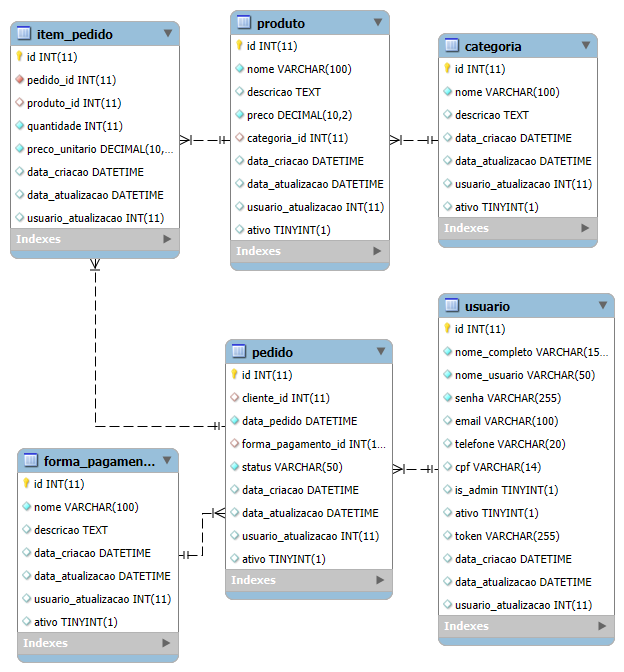
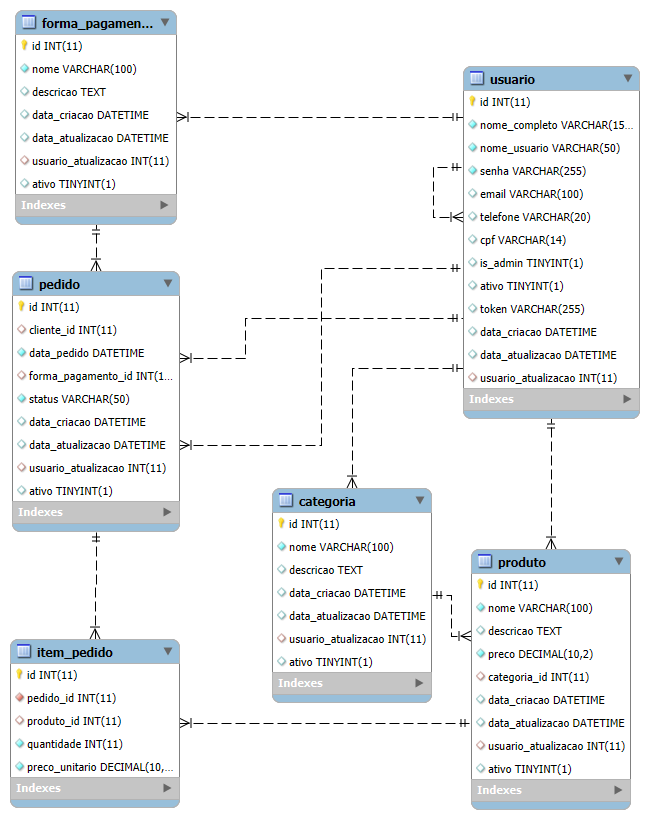
Adicao de calsse Database e atualizacao de diagrama

diff --git a/model/modelteste.php b/model/modelteste.php
@@ -37,6 +37,7 @@ $formaPagamentoCartao = new FormaPagamento(
 );
 
 print_r($categoriaEletronicos);
+echo "\n";
 print_r($formaPagamentoCartao);
 echo "\n";
 
@@ -63,5 +64,74 @@ $produtoMouse = new Produto(
 );
 
 print_r($produtoNotebook);
+echo "\n";
 print_r($produtoMouse);
 echo "\n";
+
+// 4. Criando Itens do Pedido
+echo "4. Criando Itens do Pedido...\n";
+$item1 = new ItemPedido(201, 5001, $produtoNotebook, 1, $produtoNotebook->getPreco());
+$item2 = new ItemPedido(201, 5001, $produtoMouse, 2, $produtoMouse->getPreco());
+
+print_r($item1);
+echo "\n";
+print_r($item2);
+echo "\n";
+
+// 5. Criando o pedido
+echo "5. Criando o Pedido completo...\n";
+$itensDoPedido = [$item1, $item2];
+
+$pedido = new Pedido(
+    5001,
+    $cliente,
+    date('Y-m-d H:i:s'),
+    $formaPagamentoCartao,
+    'Pendente',
+    true,
+    $itensDoPedido,
+    $dataAtual,
+    $dataAtual,
+    $cliente
+);
+
+echo "\n";
+print_r($pedido);
+echo "\n";
+
+
+echo "\n===============================================\n";
+echo "RESULTADO FINAL - OBJETO PEDIDO COMPLETO\n";
+echo "===============================================\n\n";
+
+// Exibindo o objeto Pedido completo com print_r para ver a estrutura aninhada
+print_r($pedido);
+
+echo "\n===============================================\n";
+echo "EXIBINDO DADOS COM GETTERS\n";
+echo "===============================================\n\n";
+
+echo "ID do Pedido: " . $pedido->getId() . "\n";
+echo "Cliente: " . $pedido->getCliente()->getNomeCompleto() . " (Email: " . $pedido->getCliente()->getEmail() . ")\n";
+echo "Data do Pedido: " . $pedido->getDataPedido() . "\n";
+echo "Status: " . $pedido->getStatus() . "\n";
+echo "Forma de Pagamento: " . $pedido->getFormaPagamento()->getNome() . "\n";
+echo "Auditoria: Criado em " . $pedido->getDataCriacao() . " por " . $pedido->getUsuarioAtualizacao()->getNomeCompleto() . "\n";
+echo "-----------------------------------------------\n";
+echo "Itens do Pedido:\n\n";
+
+foreach ($pedido->getItens() as $item) {
+    echo "  - Produto: " . $item->getProduto()->getNome() . "\n";
+    echo "    Categoria: " . $item->getProduto()->getCategoria()->getNome() . "\n";
+    echo "    Quantidade: " . $item->getQuantidade() . "\n";
+    echo "    Preço Unitário: R$ " . number_format($item->getPrecoUnitario(), 2, ',', '.') . "\n";
+    echo "    Subtotal: R$ " . number_format($item->getSubtotal(), 2, ',', '.') . "\n\n";
+}
+
+echo "-----------------------------------------------\n";
+echo "TOTAL DO PEDIDO: R$ " . number_format($pedido->getTotal(), 2, ',', '.') . "\n";
+echo "===============================================\n";
+echo "TESTE CONCLUÍDO\n";
+echo "===============================================\n";
+
+?>

diff --git a/database/Database.php b/database/Database.php
@@ -1,0 +1,25 @@
+<?php
+
+class Database
+{
+    private static ?PDO $instance = null;
+
+    public static function getInstance(): PDO
+    {
+        if (self::$instance === null) {
+            $db_host = "localhost";
+            $db_name = "sistema_vendas";
+            $db_user = "root";
+            $db_pass = "";
+
+            try {
+                self::$instance = new PDO("mysql:host={$db_host};dbname={$db_name};charset=utf8", $db_user, $db_pass);
+                self::$instance->setAttribute(PDO::ATTR_ERRMODE, PDO::ERRMODE_EXCEPTION);
+                self::$instance->setAttribute(PDO::ATTR_DEFAULT_FETCH_MODE, PDO::FETCH_ASSOC);
+            } catch (PDOException $e) {
+                die("Erro de conexão com o banco de dados: " . $e->getMessage());
+            }
+        }
+        return self::$instance;
+    }
+}
